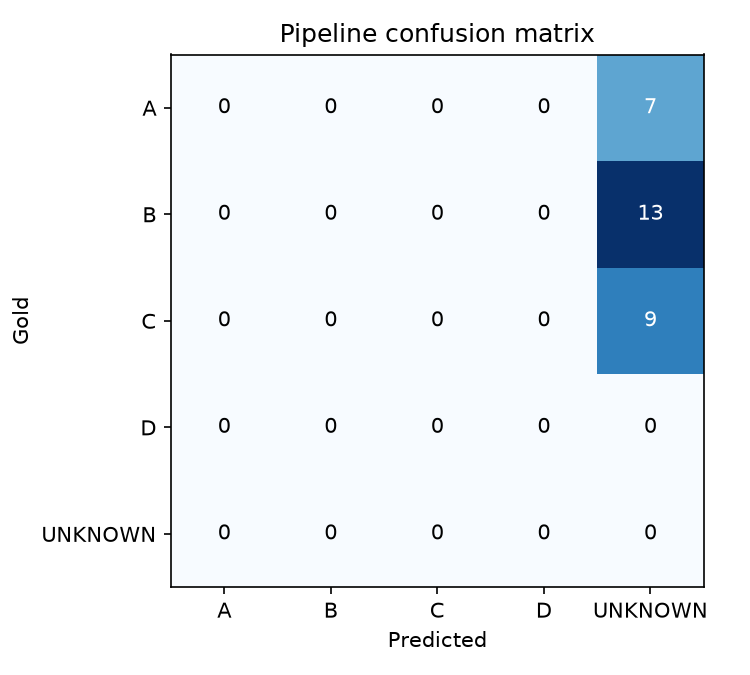
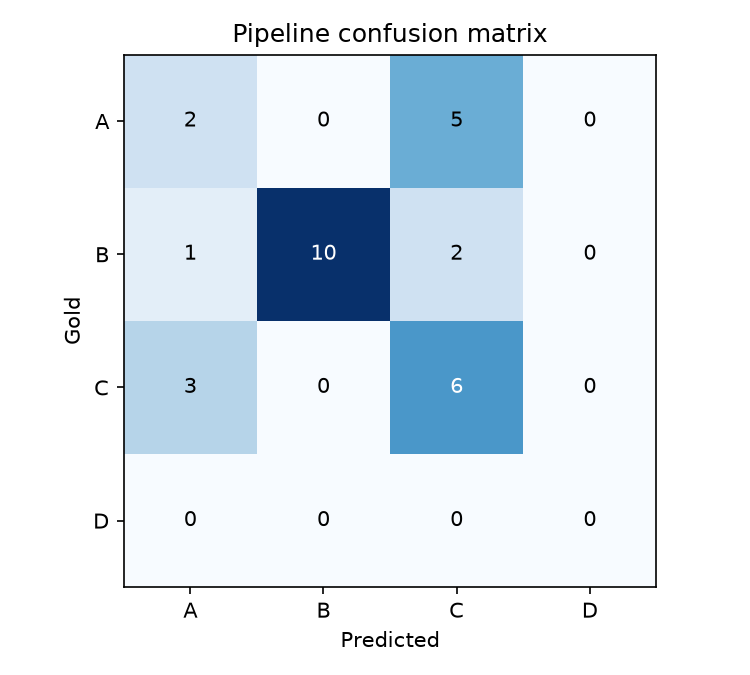
evaluation results

diff --git a/src/evaluate.py b/src/evaluate.py
@@ -23,7 +23,17 @@ C = Accounting_misleading: literally true but uses accounting choices to mislead
 D = Contradicted: conflicts with other information."""
 
 FLAG_NOTE = """Each claim also carries rule-based hints from a regex pass: "flags" (triggered risk patterns)
-and "vagueness" (0-1, higher = vaguer). Use them as evidence, not as verdicts."""
+and "vagueness" (0-1, higher = vaguer).
+These flags are heuristic signals, not conclusions. A flag suggests where to look; it does not
+by itself make a claim misleading. If the claim states its scope or method clearly despite a
+flag, label it A."""
+
+# SCOPE_BOUNDARY_UNCLEAR 误报率太高，不喂给模型
+PRECISE_FLAGS = {
+    "SCOPE2_METHOD_UNSTATED", "MATCHING_LANGUAGE", "OFFSET_UNDISCLOSED", "NO_BASELINE_YEAR",
+    "GRID_MISMATCH_RISK", "CHERRY_PICKED_METRIC", "WATER_ACCOUNTING_VAGUE",
+    "FUTURE_PROMISE_NO_MILESTONE",
+}
 
 SYSTEM = "Output ONLY a JSON array, no prose, no markdown fences."
 
@@ -38,7 +48,7 @@ Format: [{"claim_id":"...","label":"A"}]"""
 def item(c, with_hints):
     d = {"claim_id": c["claim_id"], "text": c["text"]}
     if with_hints:
-        d["flags"] = c["flags"]
+        d["flags"] = [f for f in c["flags"] if f in PRECISE_FLAGS]
         d["vagueness"] = c["vagueness"]
     return json.dumps(d, ensure_ascii=False)
 
@@ -50,7 +60,7 @@ def build_prompt(method, batch):
     head = "Classify each corporate environmental claim below as A, B, C, or D.\n\n" + rubric
     if hints:
         head += "\n\n" + FLAG_NOTE
-    return f"{head}\n\n{CONSTRAINTS}\n\nCLAIMS:\n{claims}"
+    return f"{head}\n\nCLAIMS:\n{claims}\n\n{CONSTRAINTS}"
 
 
 def parse_json(raw):
